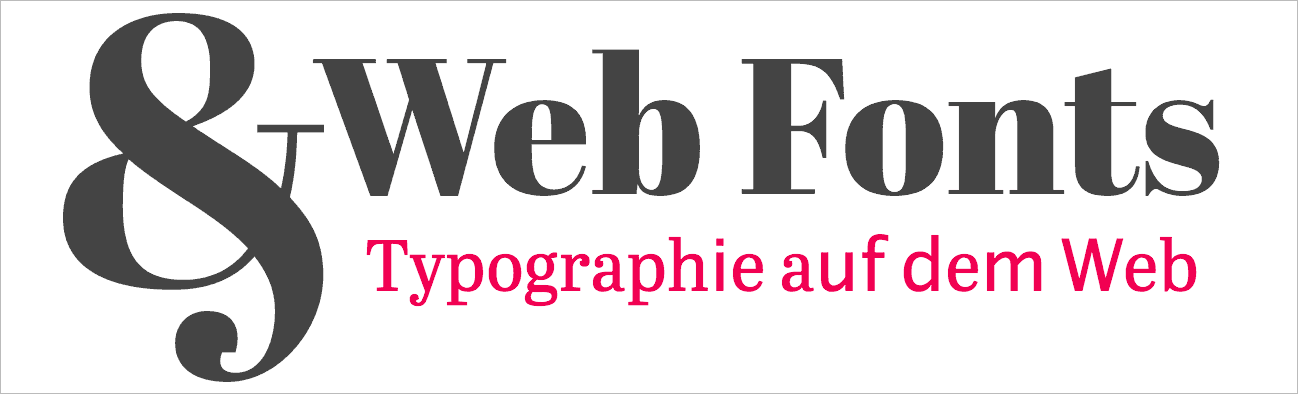
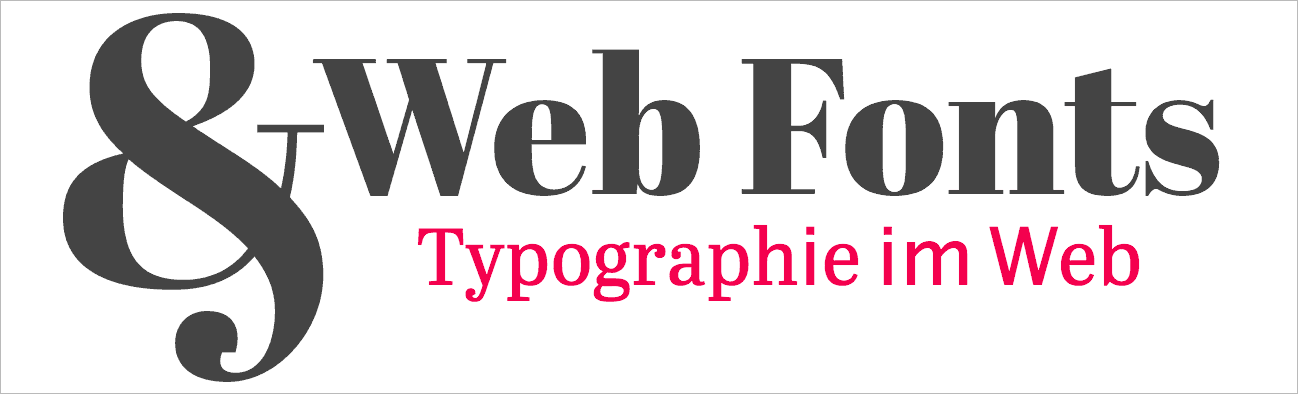
Fix German in example. D'oh.

Changed region(s): [[0.2773, 0.5787, 0.9245, 0.7919]]

diff --git a/src/writing/web-font-anti-patterns-overusing.md b/src/writing/web-font-anti-patterns-overusing.md
@@ -33,7 +33,7 @@ Using web fonts for lettering becomes especially problematic in responsive desig
 Another issue with using web fonts for lettering is localisation. If you use web fonts for lettering you’ll need to [aggressively subset](web-font-anti-patterns-subsetting.html) your fonts to make them small enough so that they load quickly. By doing that you’ll also make it difficult to translate your lettering in other languages, which often uses different character set.
 
 ![](/assets/images/web-fonts-vs-lettering-de.png)
-<p class=caption>Overusing web fonts and aggressive subsetting is not a good combination. The characters `i`, `u`, `f`, `d`, `m`, and `W` are not in the original subset, but are required for a German translation. You’ll need to expand the subset for these characters, further inflating the font file size.</p>
+<p class=caption>Overusing web fonts and aggressive subsetting is not a good combination. The characters `i`, `m`, and `W` are not in the original subset, but are required for a German translation. You’ll need to expand the subset for these characters, further inflating the font file size.</p>
 
 Web fonts (and typefaces) are meant for body text and headlines. Text that can be selected, copied, and re-used. Lettering is usually a one-off thing for logos, illustrations, and art. It’s perfectly fine to do lettering in SVG. If you’re worried about accessibility (you should be!) SVG has [several good ways to increase accessibility](http://www.sitepoint.com/tips-accessible-svg/).
 
